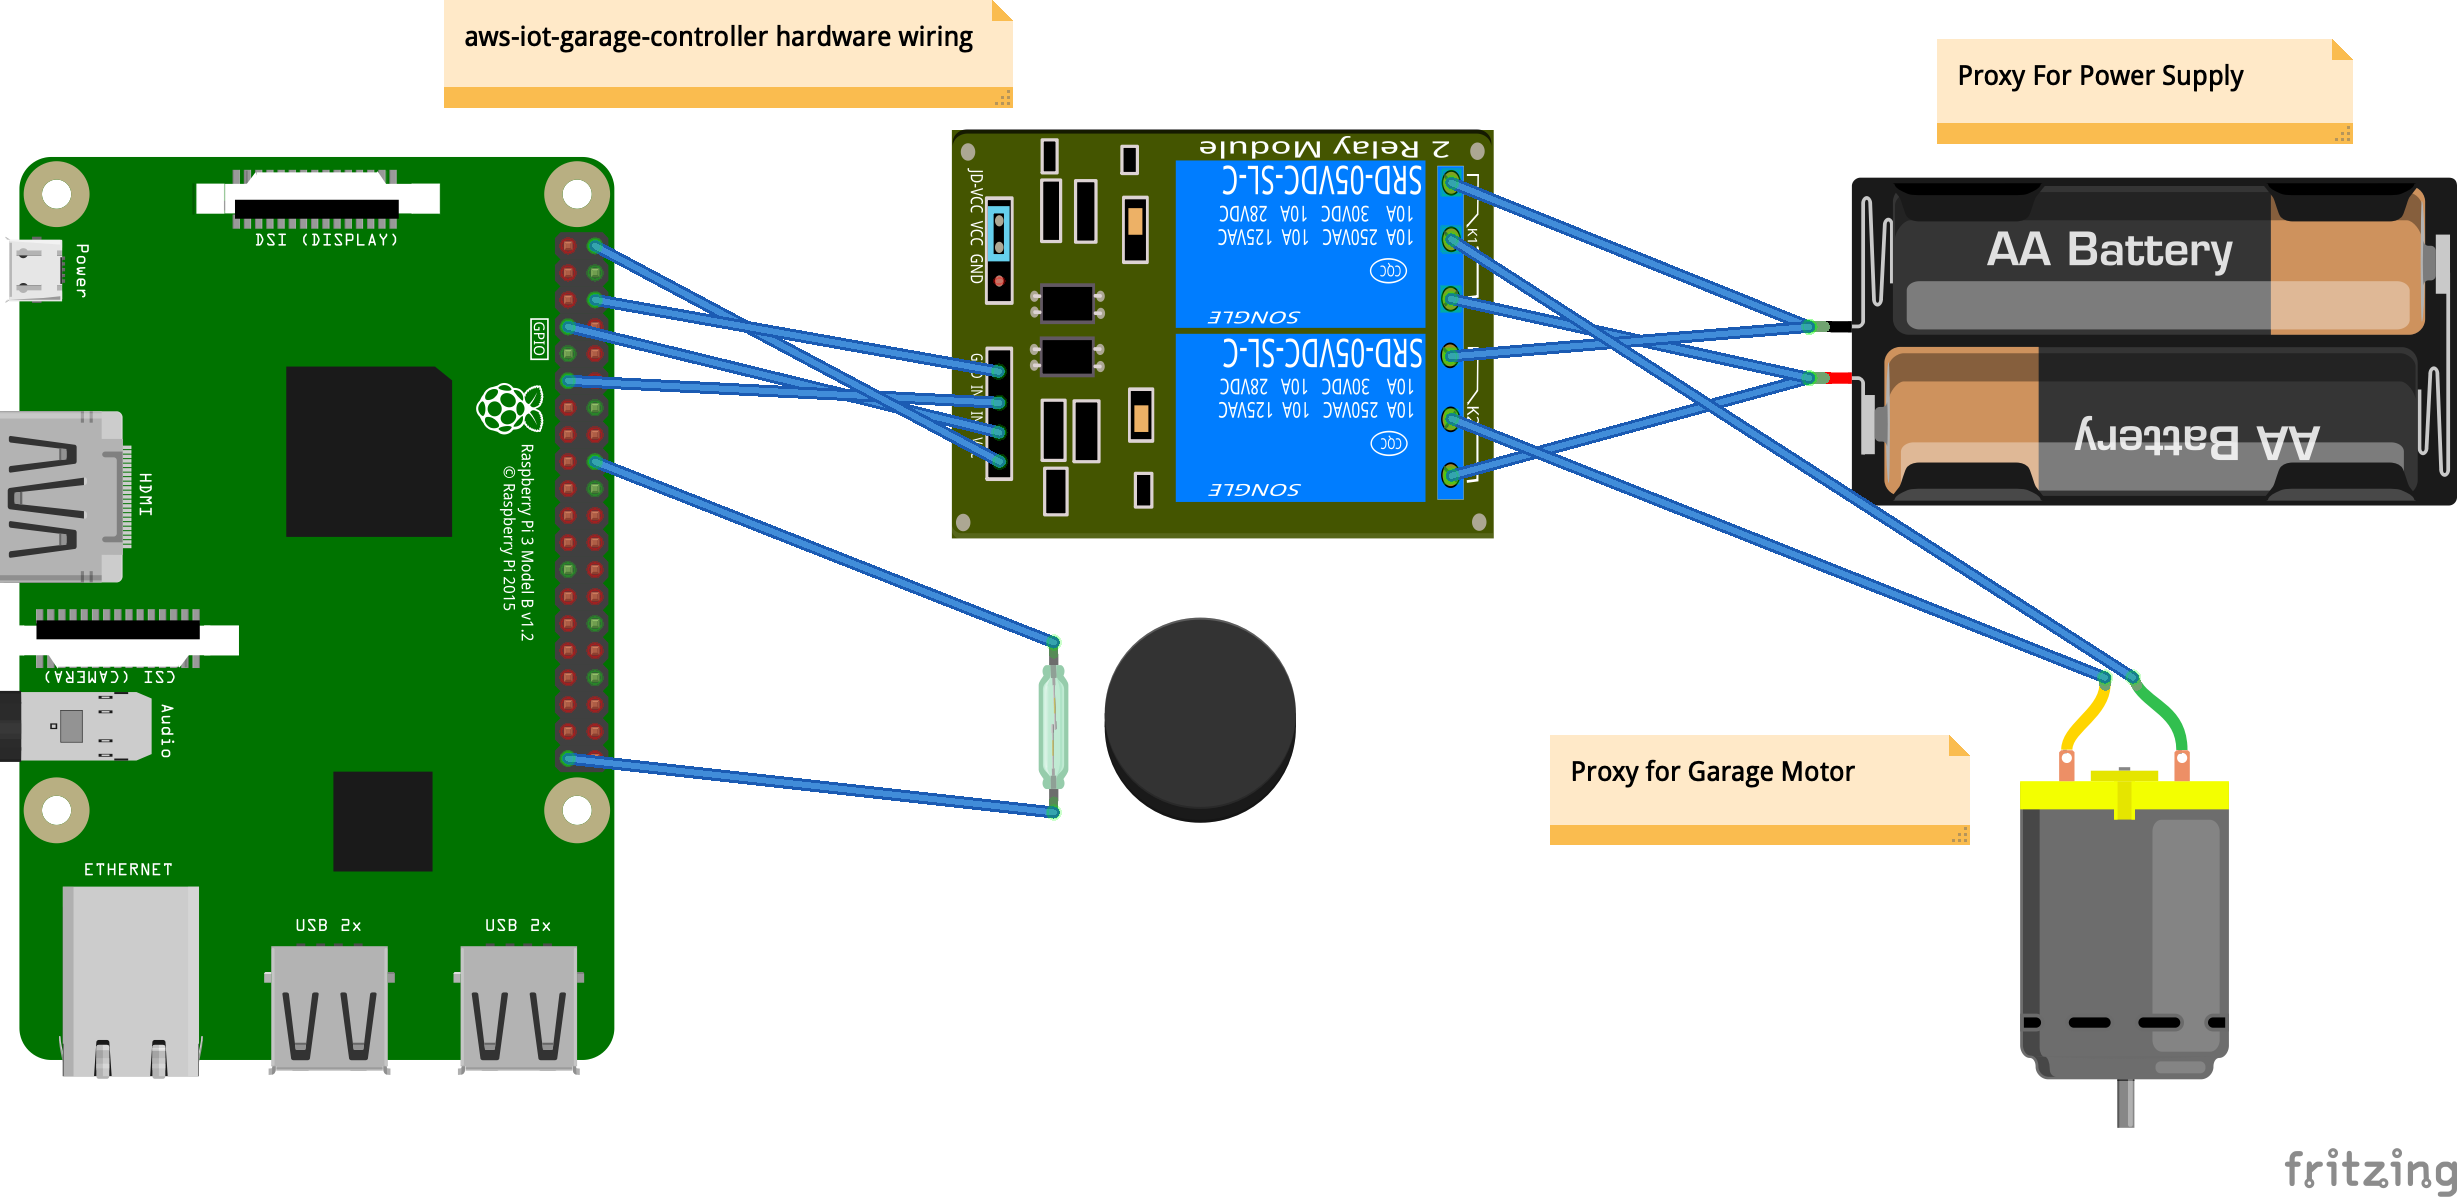
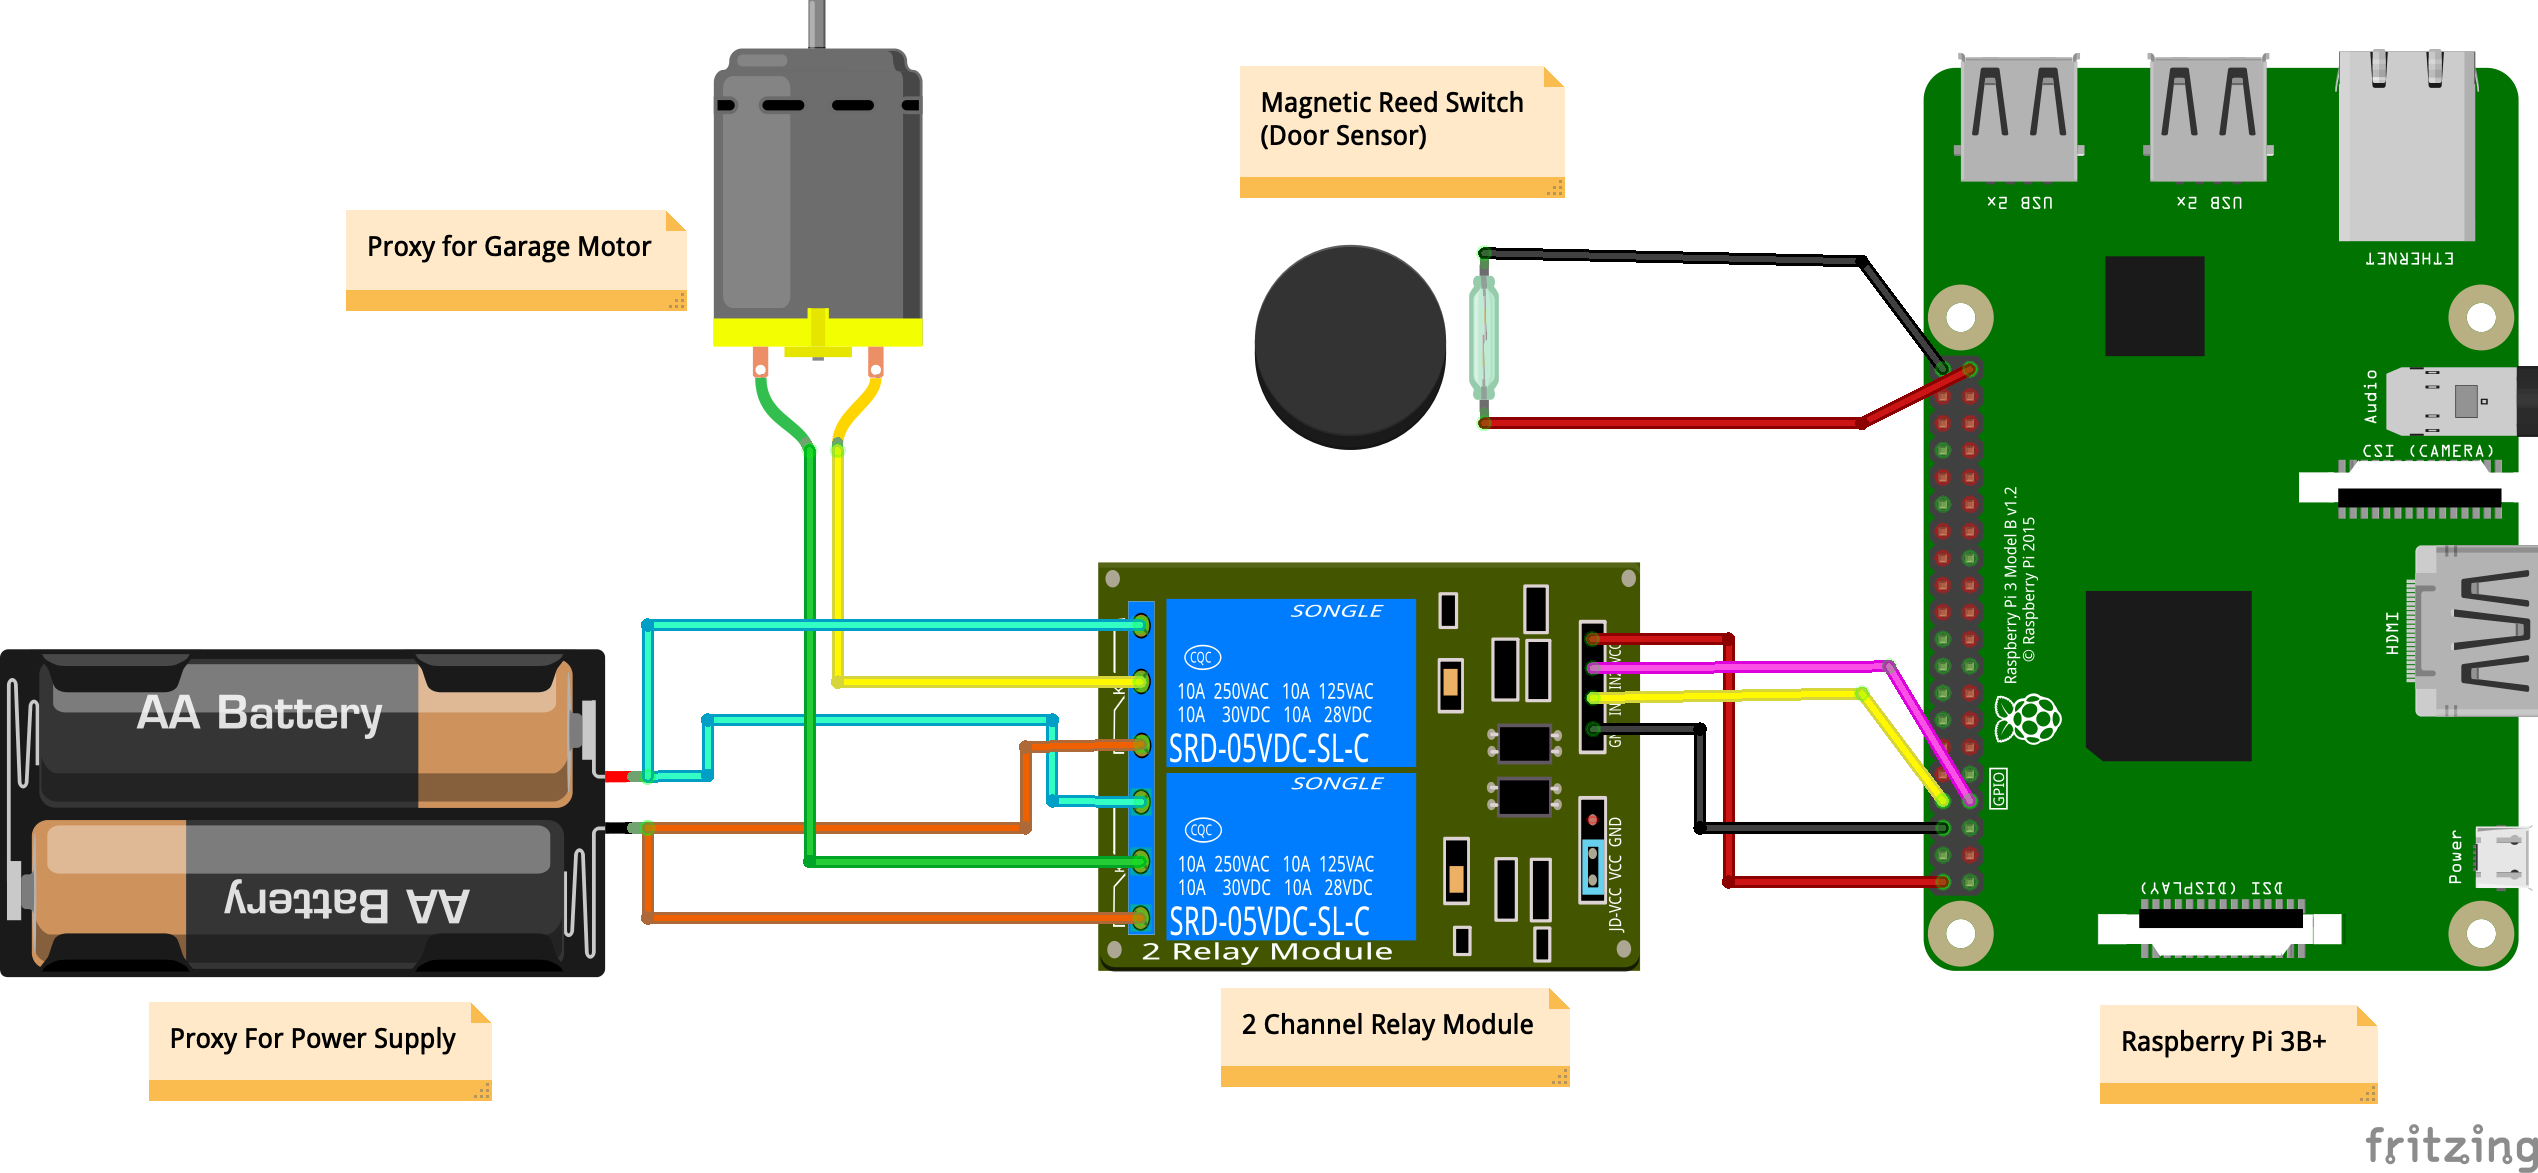
changes to files and introduced rekognition

diff --git a/pi/rekognize.py b/pi/rekognize.py
@@ -1,0 +1,99 @@
+import boto3
+import time
+
+from watchdog.observers import Observer
+from watchdog.events import FileSystemEventHandler
+
+
+class Watcher:
+    DIRECTORY_TO_WATCH = "/var/lib/motioneye/MainCamera"
+
+    def __init__(self):
+        self.observer = Observer()
+
+    def run(self):
+        event_handler = Handler()
+        self.observer.schedule(event_handler, self.DIRECTORY_TO_WATCH, recursive=True)
+        self.observer.start()
+        try:
+            while True:
+                time.sleep(5)
+        except:
+            self.observer.stop()
+            print("Error")
+
+        self.observer.join()
+
+
+def get_client():
+    return boto3.client('rekognition')
+
+
+def check_face(client, file):
+    face_detected = False
+    with open(file, 'rb') as image:
+        response = client.detect_faces(Image={'Bytes': image.read()})
+        if not response['FaceDetails']:
+            face_detected = False
+        else:
+            face_detected = True
+
+    return face_detected, response
+
+
+def check_matches(client, file):
+    face_matches = False
+    with open(file, 'rb') as image:
+        response = client.search_faces_by_image(CollectionId='CarPen9000', Image={'Bytes': image.read()},
+                                                MaxFaces=1,
+                                                FaceMatchThreshold=85)
+        if not response['FaceMatches']:
+            face_matches = False
+        else:
+            face_matches = True
+
+    return face_matches, response
+
+
+def process(image):
+    client = get_client()
+
+    print('[+] Running face checks against image...')
+    result, resp = check_face(client, image)
+
+    if result:
+        print("[+] Face(s) detected with %r confidence..." % (round(resp['FaceDetails'][0]['Confidence'], 2)))
+        print("[+] Checking for a face match...")
+        resu, res = check_matches(client, image)
+
+        if resu:
+            print("[+] Identity matched %s with %r similarity and %r confidence..." % (
+                res['FaceMatches'][0]['Face']['ExternalImageId'], round(res['FaceMatches'][0]['Similarity'], 1),
+                round(res['FaceMatches'][0]['Face']['Confidence'], 2)))
+        else:
+            print("[-] No face matches detected...")
+    else:
+        print("[-] No faces detected...")
+
+
+class Handler(FileSystemEventHandler):
+
+    @staticmethod
+    def on_any_event(event):
+        if event.is_directory:
+            return None
+
+        elif event.event_type == 'created':
+            # Take any action here when a file is first created.
+            print("Received created event - %s." % event.src_path)
+            process(event.src_path)
+
+        elif event.event_type == 'modified':
+            # Taken any action here when a file is modified.
+            print("Received modified event - %s." % event.src_path)
+            process(event.src_path)
+
+
+if __name__ == '__main__':
+    w = Watcher()
+    w.run()

diff --git a/pi/config.py b/pi/config.py
@@ -19,5 +19,10 @@ QOS_LEVEL = 1
 # GPIO PIN CONFIG
 # In the future, fetch this from cloud config, so you can change as needed, without having to change code.
 PIN_MOTOR_OPEN = 4
-PIN_MOTOR_CLOSE = 17
-PIN_DOOR_SENSOR = 24
+PIN_MOTOR_CLOSE = 14
+PIN_DOOR_SENSOR = 21
+
+# RGB LED PINS
+PIN_LED_RED = 9
+PIN_LED_GREEN = 10
+PIN_LED_BLUE = 11

diff --git a/pi/main.py b/pi/main.py
@@ -17,6 +17,7 @@ This is the main garage controller. The features it entails.
 import json
 import config
 import logging
+import rekognize
 
 from gpiozero import Motor
 from gpiozero import Button
